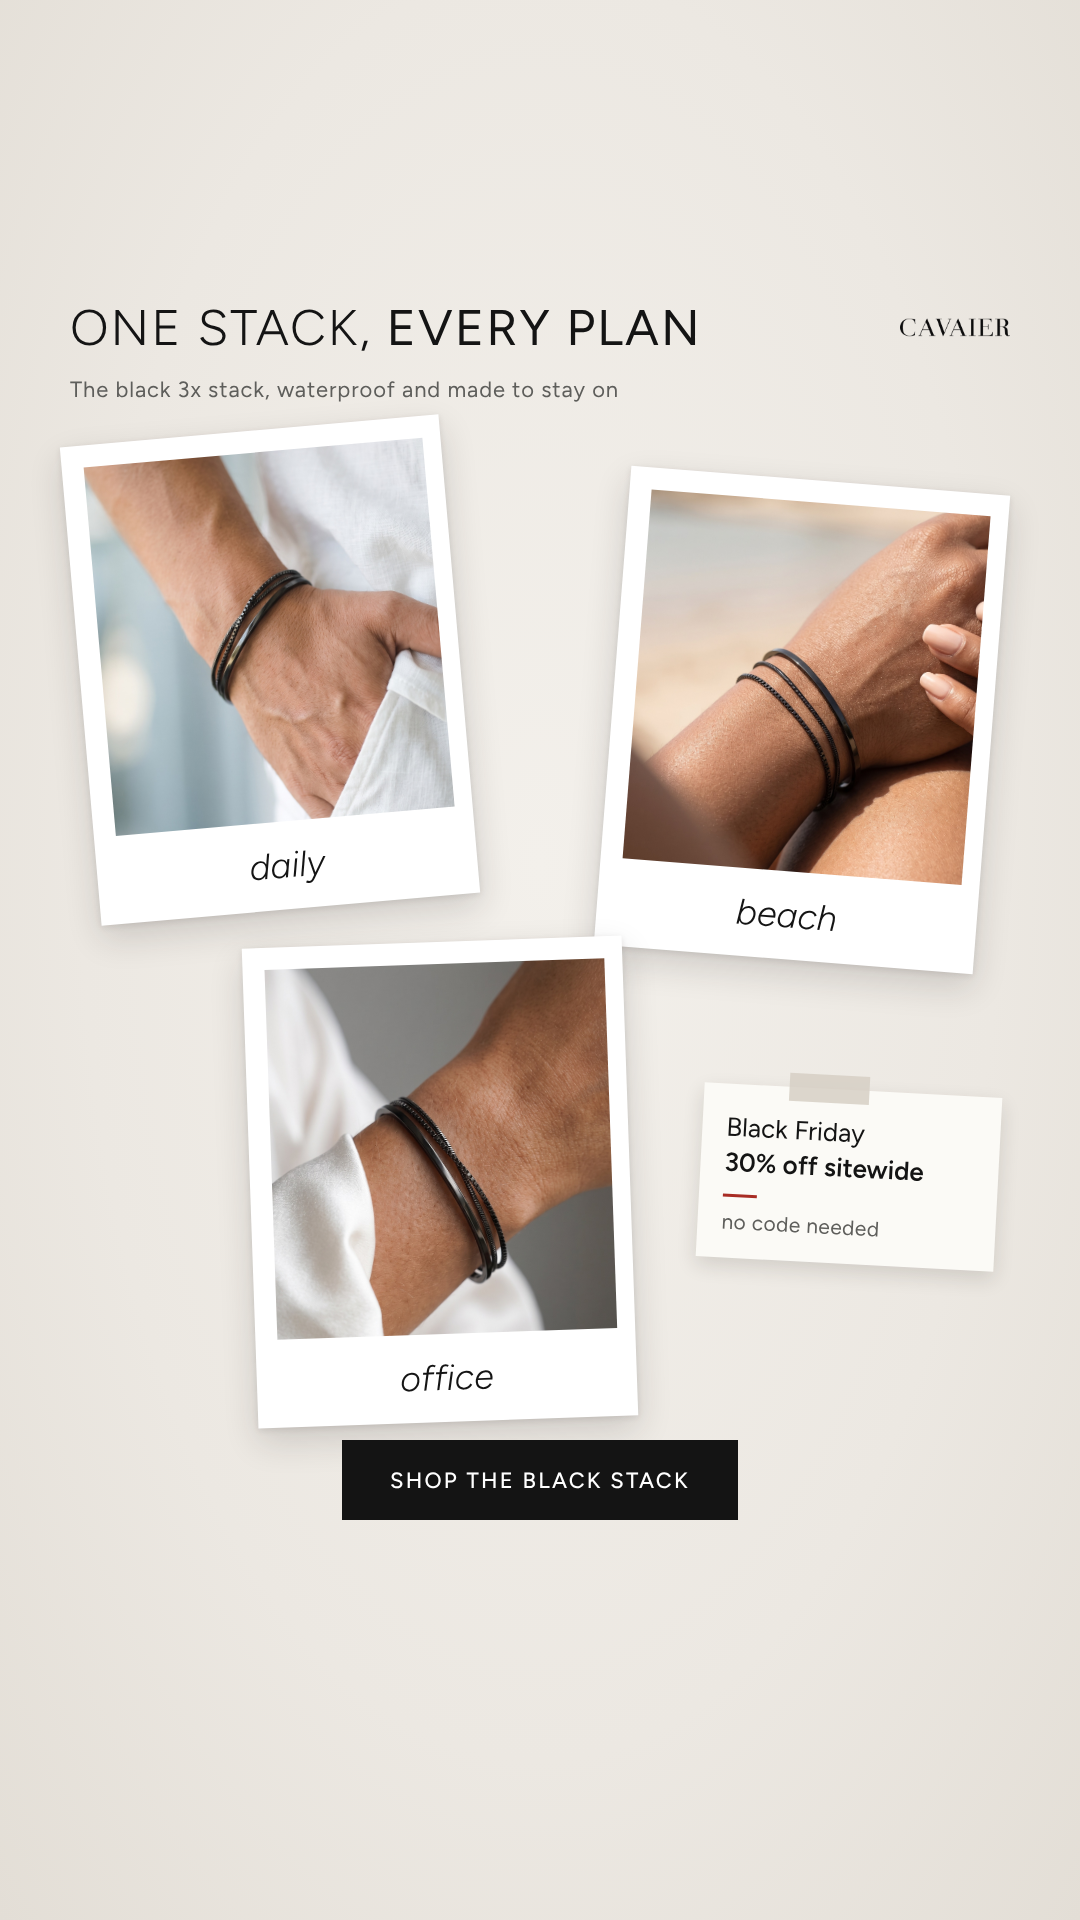
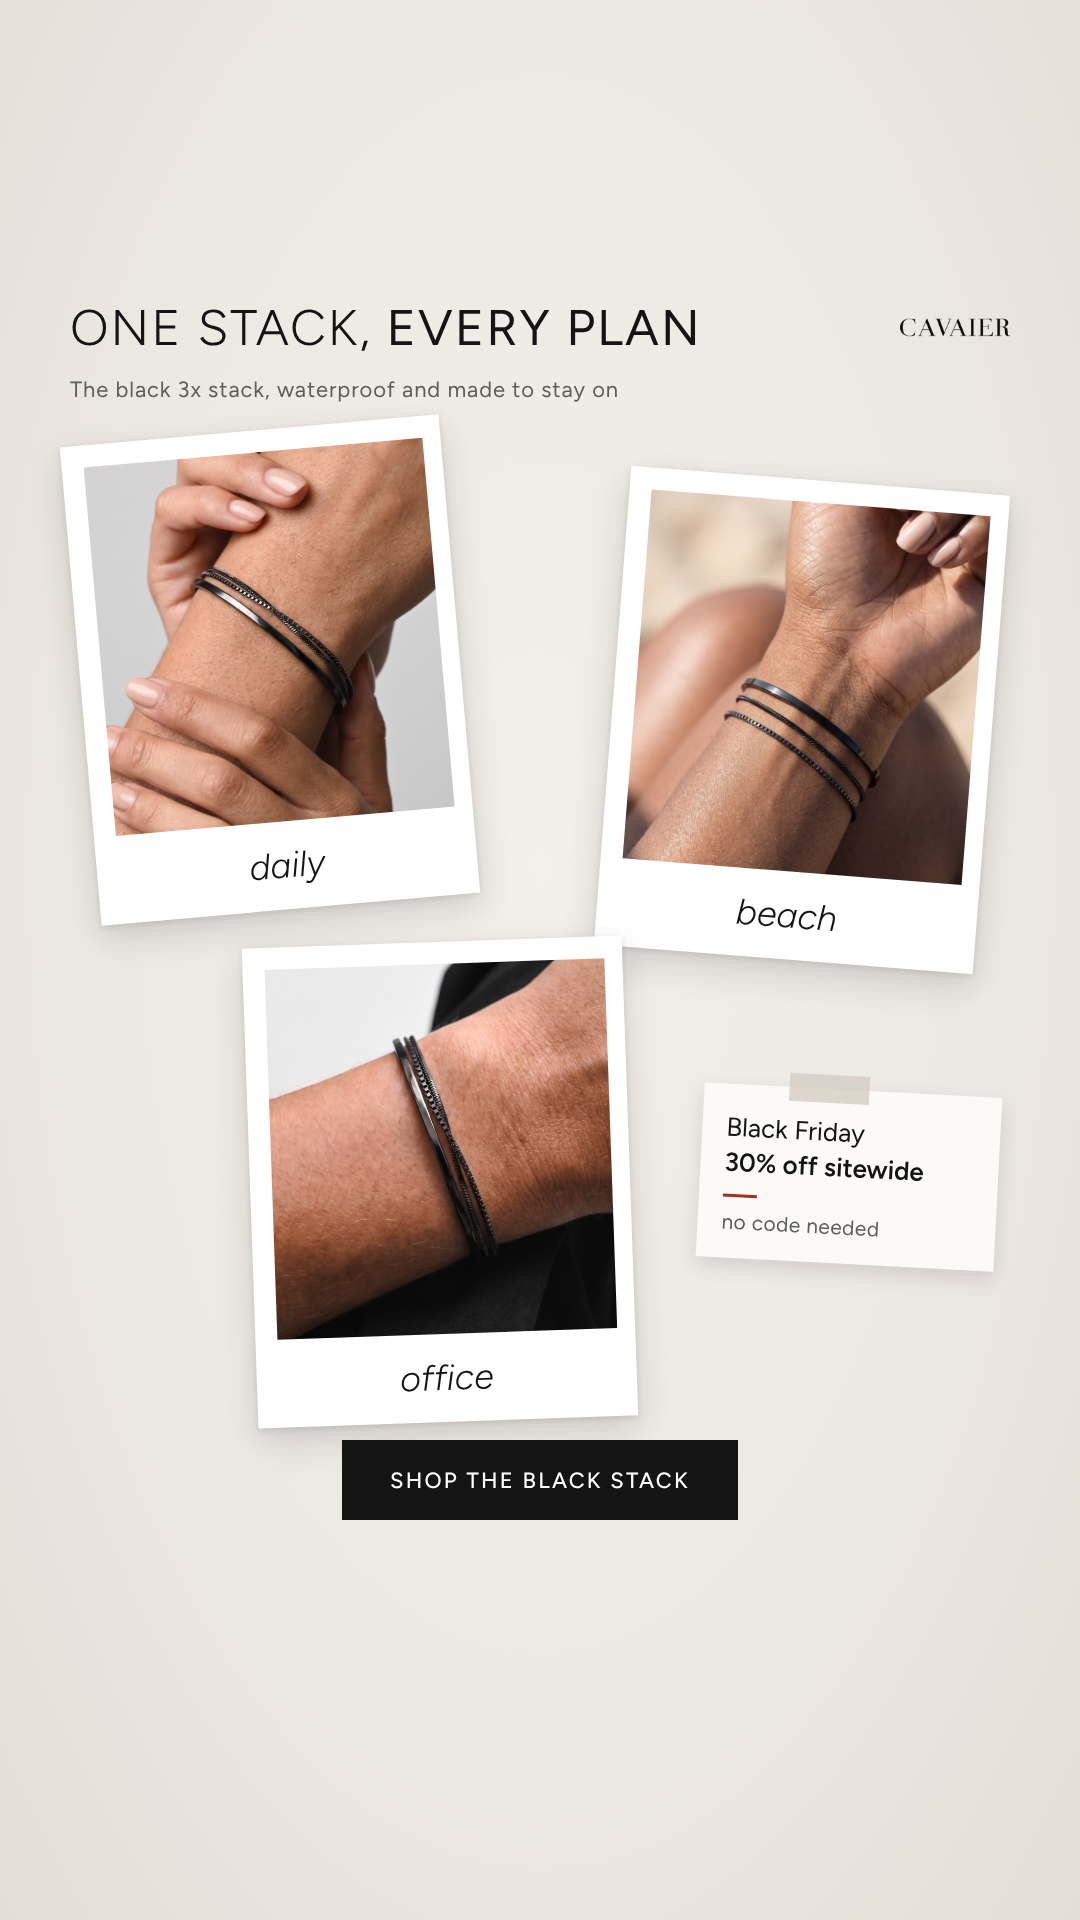
M483 C1-C3, M485 C1, W434 C1+C3: cleaner real photos (M483 C2 men's 3x stack silver)
Claude-Session: https://claude.ai/code/session_01LtGMNmy7hV4kZNsS3Vsb6Q

Changed region(s): [[0.5806, 0.25, 0.9167, 0.4688], [0.2444, 0.5, 0.5806, 0.7188], [0.0611, 0.2188, 0.4278, 0.4375]]

diff --git a/bfcm26/canvas/M483-C2.dc.html b/bfcm26/canvas/M483-C2.dc.html
@@ -2,7 +2,7 @@
 <html lang="en">
 <head>
 <meta charset="utf-8">
-<title>M Batch 483 - C2 · Lock-screen notifications</title>
+<title>M Batch 483 - C2 · Lock-screen notifications (3x stack)</title>
 <script src="./support.js"></script>
 </head>
 <body>
@@ -14,14 +14,17 @@ body{margin:0}
 a{color:#141414}a:hover{color:#000000}
 </style>
 </helmet>
-<div style="width: 1080px; height: 1920px; position: relative; overflow: hidden; background: #141414; font-family: Figtree, sans-serif; color: #141414">
-<img src="/_blob/a15115266cceaba5ee4f8b4f79f6742e" alt="The silver 2x Duo Minimal Set on a man's wrist across a dark linen shirt" style="position: absolute; top: -390px; left: 0; width: 1080px; height: 2310px; object-fit: cover; object-position: 50% 0%; display: block">
-<div style="position: absolute; top: 285px; left: 0; width: 1080px; display: flex; flex-direction: column; align-items: center; gap: 4px; color: #FFFFFF">
-<img src="/_blob/b5d78a878b48e10609c923597dd1852e" alt="Cavaier" style="width: 110px; height: auto; display: block; filter: invert(1)">
-<span style="margin-top: 14px; font-size: 30px; font-weight: 500; letter-spacing: 0.04em">Black Friday</span>
-<span style="font-size: 170px; font-weight: 300; line-height: 1; letter-spacing: -0.01em">9:41</span>
+<div style="width: 1080px; height: 1920px; position: relative; overflow: hidden; background: #DFDFDF; font-family: Figtree, sans-serif; color: #141414">
+<img src="/_blob/2d30e2c8d2ea2521378bf7b9d74e8f41" alt="The silver 3x Minimal Stack Set on a man's wrist: polished cuff, box chain and square chain" style="position: absolute; top: -109px; left: 0; width: 1080px; height: 1440px; display: block; -webkit-mask-image: linear-gradient(180deg, #000000 0%, #000000 88%, transparent 100%); mask-image: linear-gradient(180deg, #000000 0%, #000000 88%, transparent 100%)">
+<div style="position: absolute; top: 280px; right: 60px; display: flex; flex-direction: column; align-items: flex-end; gap: 18px">
+<div style="width: 420px; box-sizing: border-box; padding: 26px 30px 22px; background: rgba(247,247,245,0.93); border-radius: 30px; display: flex; flex-direction: column; align-items: flex-end; gap: 4px; color: #141414">
+<img src="/_blob/b5d78a878b48e10609c923597dd1852e" alt="Cavaier" style="width: 110px; height: auto; display: block">
+<span style="margin-top: 10px; font-size: 30px; font-weight: 500; letter-spacing: 0.04em">Black Friday</span>
+<span style="font-size: 140px; font-weight: 300; line-height: 1; letter-spacing: -0.01em">9:41</span>
 </div>
-<div style="position: absolute; top: 1000px; left: 60px; display: flex; flex-direction: column; gap: 10px">
+<a href="https://cavaier.com/products/3x-minimal-stack-set-for-him?variant=54372875796826" style="display: inline-flex; align-items: center; justify-content: center; height: 80px; padding: 0 48px; background: #141414; color: #FFFFFF; text-decoration: none; font-size: 22px; font-weight: 500; letter-spacing: 0.1em">SHOP THE STACK</a>
+</div>
+<div style="position: absolute; top: 1052px; left: 60px; display: flex; flex-direction: column; gap: 10px">
 <div style="width: 960px; box-sizing: border-box; padding: 18px 28px; background: rgba(247,247,245,0.93); border-radius: 30px; display: flex; gap: 22px; align-items: flex-start">
 <span style="flex: none; width: 62px; height: 62px; border-radius: 15px; background: #141414; display: flex; align-items: center; justify-content: center; color: #FFFFFF; font-size: 30px; font-weight: 400">C</span>
 <div style="flex: 1; display: flex; flex-direction: column; gap: 2px">
@@ -34,8 +37,8 @@ a{color:#141414}a:hover{color:#000000}
 <span style="flex: none; width: 62px; height: 62px; border-radius: 15px; background: #141414; display: flex; align-items: center; justify-content: center; color: #FFFFFF; font-size: 30px; font-weight: 400">C</span>
 <div style="flex: 1; display: flex; flex-direction: column; gap: 2px">
 <div style="display: flex; justify-content: space-between; font-size: 22px; font-weight: 500; letter-spacing: 0.06em; color: #5C5C57"><span>CAVAIER</span><span style="font-weight: 400; letter-spacing: 0">2m ago</span></div>
-<span style="font-size: 29px; font-weight: 600; line-height: 1.25">Your duo: waterproof, 316L</span>
-<span style="font-size: 27px; font-weight: 400; line-height: 1.3; color: #2A2A28">Box chain + square chain. Sweat and heat resistant.</span>
+<span style="font-size: 29px; font-weight: 600; line-height: 1.25">The stack: three pieces, recycled 316L</span>
+<span style="font-size: 27px; font-weight: 400; line-height: 1.3; color: #2A2A28">Polished cuff, box chain, square chain.</span>
 </div>
 </div>
 <div style="width: 960px; box-sizing: border-box; padding: 18px 28px; background: rgba(247,247,245,0.93); border-radius: 30px; display: flex; gap: 22px; align-items: flex-start">
@@ -43,18 +46,15 @@ a{color:#141414}a:hover{color:#000000}
 <div style="flex: 1; display: flex; flex-direction: column; gap: 2px">
 <div style="display: flex; justify-content: space-between; font-size: 22px; font-weight: 500; letter-spacing: 0.06em; color: #5C5C57"><span>CAVAIER</span><span style="font-weight: 400; letter-spacing: 0">5m ago</span></div>
 <span style="font-size: 29px; font-weight: 600; line-height: 1.25">Free shipping · case included</span>
-<span style="font-size: 27px; font-weight: 400; line-height: 1.3; color: #2A2A28">Adjustable S/M/L. 4.5 on Trustpilot, 3,000+ reviews.</span>
+<span style="font-size: 27px; font-weight: 400; line-height: 1.3; color: #2A2A28">Waterproof. 4.5 on Trustpilot, 3,000+ reviews.</span>
 </div>
 </div>
-</div>
-<div style="position: absolute; top: 1452px; left: 60px; width: 960px; display: flex; justify-content: center">
-<a href="https://cavaier.com/products/2x-duo-minimal-set-for-him?variant=54745039536474" style="display: inline-flex; align-items: center; justify-content: center; height: 80px; padding: 0 48px; background: #141414; color: #FFFFFF; text-decoration: none; font-size: 22px; font-weight: 500; letter-spacing: 0.1em">SHOP THE DUO</a>
 </div>
 <div style="position: absolute; top: 1690px; left: 110px; width: 860px; display: flex; justify-content: space-between">
 <span style="width: 100px; height: 100px; border-radius: 50%; background: rgba(20,20,20,0.45); display: block"></span>
 <span style="width: 100px; height: 100px; border-radius: 50%; background: rgba(20,20,20,0.45); display: block"></span>
 </div>
-<div style="position: absolute; top: 1872px; left: 390px; width: 300px; height: 10px; border-radius: 5px; background: #FFFFFF"></div>
+<div style="position: absolute; top: 1872px; left: 390px; width: 300px; height: 10px; border-radius: 5px; background: #141414"></div>
 </div>
 </x-dc>
 <script type="text/x-dc" data-dc-script data-props='{"$preview":{"width":1080,"height":1920}}'>

diff --git a/bfcm26/canvas/W434-C3.dc.html b/bfcm26/canvas/W434-C3.dc.html
@@ -21,9 +21,9 @@ a{color:#141414}a:hover{color:#000000}
 <img src="/_blob/b5d78a878b48e10609c923597dd1852e" alt="Cavaier" style="width: 110px; height: auto; display: block">
 </div>
 <span style="position: absolute; top: 376px; left: 70px; font-size: 22px; font-weight: 400; letter-spacing: 0.04em; color: #5E5E5B">The black 3x stack, waterproof and made to stay on</span>
-<div style="position: absolute; top: 430px; left: 80px; width: 380px; height: 480px; background: #FFFFFF; transform: rotate(-5deg); box-shadow: 0 14px 34px rgba(40,34,28,0.16), 0 2px 6px rgba(40,34,28,0.10)"><img src="/_blob/8dc0c20339dbb5e5f8cc0b5da83fbe2f" alt="The black 3x Minimal - Stack Set on a woman's wrist, hand in a white linen pocket" style="position: absolute; top: 22px; left: 22px; width: 340px; height: 370px; object-fit: cover; object-position: 50% 30%; display: block"><span style="position: absolute; left: 0; right: 0; bottom: 26px; text-align: center; font-size: 36px; line-height: 1; font-weight: 300; font-style: italic; color: #141414">daily</span></div>
-<div style="position: absolute; top: 480px; left: 612px; width: 380px; height: 480px; background: #FFFFFF; transform: rotate(4.5deg); box-shadow: 0 14px 34px rgba(40,34,28,0.16), 0 2px 6px rgba(40,34,28,0.10)"><img src="/_blob/4ea13465f38c0262ccc60c005880c024" alt="The black 3x Minimal - Stack Set on a woman's wrist at the beach" style="position: absolute; top: 22px; left: 22px; width: 340px; height: 370px; object-fit: cover; object-position: 50% 40%; display: block"><span style="position: absolute; left: 0; right: 0; bottom: 26px; text-align: center; font-size: 36px; line-height: 1; font-weight: 300; font-style: italic; color: #141414">beach</span></div>
-<div style="position: absolute; top: 942px; left: 250px; width: 380px; height: 480px; background: #FFFFFF; transform: rotate(-2deg); box-shadow: 0 14px 34px rgba(40,34,28,0.16), 0 2px 6px rgba(40,34,28,0.10)"><img src="/_blob/e5cace85271a5798f43115c7ff878032" alt="The black 3x Minimal - Stack Set on a woman's wrist under a white shirt cuff" style="position: absolute; top: 22px; left: 22px; width: 340px; height: 370px; object-fit: cover; object-position: 55% 40%; display: block"><span style="position: absolute; left: 0; right: 0; bottom: 26px; text-align: center; font-size: 36px; line-height: 1; font-weight: 300; font-style: italic; color: #141414">office</span></div>
+<div style="position: absolute; top: 430px; left: 80px; width: 380px; height: 480px; background: #FFFFFF; transform: rotate(-5deg); box-shadow: 0 14px 34px rgba(40,34,28,0.16), 0 2px 6px rgba(40,34,28,0.10)"><img src="/_blob/acc79b16a3129004eb9c6413e9a611d3" alt="The black 3x Minimal - Stack Set on a woman's wrist, hands crossed in soft studio light" style="position: absolute; top: 22px; left: 22px; width: 340px; height: 370px; object-fit: cover; object-position: 50% 55%; display: block"><span style="position: absolute; left: 0; right: 0; bottom: 26px; text-align: center; font-size: 36px; line-height: 1; font-weight: 300; font-style: italic; color: #141414">daily</span></div>
+<div style="position: absolute; top: 480px; left: 612px; width: 380px; height: 480px; background: #FFFFFF; transform: rotate(4.5deg); box-shadow: 0 14px 34px rgba(40,34,28,0.16), 0 2px 6px rgba(40,34,28,0.10)"><img src="/_blob/c9ea2f3904bd654bf13250323a92b9d6" alt="The black 3x Minimal - Stack Set on a woman's wrist in the sun at the beach" style="position: absolute; top: 22px; left: 22px; width: 340px; height: 370px; object-fit: cover; object-position: 50% 30%; display: block"><span style="position: absolute; left: 0; right: 0; bottom: 26px; text-align: center; font-size: 36px; line-height: 1; font-weight: 300; font-style: italic; color: #141414">beach</span></div>
+<div style="position: absolute; top: 942px; left: 250px; width: 380px; height: 480px; background: #FFFFFF; transform: rotate(-2deg); box-shadow: 0 14px 34px rgba(40,34,28,0.16), 0 2px 6px rgba(40,34,28,0.10)"><img src="/_blob/d48f3d84b7d587ecec3e61920a2950ac" alt="The black 3x Minimal - Stack Set on a woman's wrist against a black top and white wall" style="position: absolute; top: 22px; left: 22px; width: 340px; height: 370px; object-fit: cover; object-position: 50% 50%; display: block"><span style="position: absolute; left: 0; right: 0; bottom: 26px; text-align: center; font-size: 36px; line-height: 1; font-weight: 300; font-style: italic; color: #141414">office</span></div>
 <div style="position: absolute; top: 1090px; left: 700px; width: 250px; padding: 26px 24px 24px; background: #FBFAF6; transform: rotate(3deg); box-shadow: 0 8px 20px rgba(40,34,28,0.14)">
 <i style="position: absolute; top: -14px; left: 85px; width: 80px; height: 28px; background: rgba(214,207,196,0.85); display: block"></i>
 <p style="margin: 0; font-size: 26px; line-height: 1.35; font-weight: 400; color: #141414">Black Friday<br><span style="font-weight: 600">30% off sitewide</span></p>

diff --git a/bfcm26/canvas/M483-C3.dc.html b/bfcm26/canvas/M483-C3.dc.html
@@ -15,13 +15,12 @@ a{color:#141414}a:hover{color:#000000}
 </style>
 </helmet>
 <div style="width: 1080px; height: 1920px; position: relative; overflow: hidden; background: #1E1E1C; font-family: Figtree, sans-serif; color: #141414">
-<img src="/_blob/94add300bf213fdd37f226757f616e97" alt="The silver 2x Duo Minimal Set on a wet wrist, fingers in shallow water" style="position: absolute; top: -210px; left: 0; width: 1080px; height: 2130px; object-fit: cover; object-position: 50% 0%; display: block">
-<div style="position: absolute; top: 905px; left: 60px; width: 960px; box-sizing: border-box; padding: 44px 48px 48px; background: #FAFAF8; display: flex; flex-direction: column; gap: 18px">
+<img src="/_blob/1aa6c867660d3267f31e3b1062afe347" alt="The silver 2x Duo Minimal Set on a wet wrist, hand pressed into wet sand" style="position: absolute; top: -220px; left: -173px; width: 1427px; height: 2140px; display: block">
+<div style="position: absolute; top: 945px; left: 60px; width: 960px; box-sizing: border-box; padding: 44px 48px 48px; background: #FAFAF8; display: flex; flex-direction: column; gap: 18px">
 <div style="display: flex; align-items: center; justify-content: space-between"><span style="font-size: 22px; font-weight: 500; letter-spacing: 0.1em; color: #5C5C57">REMINDER</span><img src="/_blob/b5d78a878b48e10609c923597dd1852e" alt="Cavaier" style="width: 110px; height: auto; display: block"></div>
 <div style="display: flex; align-items: stretch; gap: 22px"><span style="flex: none; width: 8px; background: #A82C24; display: block"></span><span style="font-size: 50px; font-weight: 400; line-height: 1.15; letter-spacing: 0.04em; text-transform: uppercase">Black Friday · get the duo</span></div>
 <div style="display: flex; align-items: center; gap: 18px; font-size: 28px; font-weight: 400; line-height: 1.35"><svg width="30" height="30" viewBox="0 0 30 30" fill="none" stroke="#141414" stroke-width="2" aria-hidden="true"><circle cx="15" cy="15" r="12.5"></circle><path d="M15 8 V15 L20 18"></path></svg><span>All day</span></div>
 <div style="display: flex; align-items: center; gap: 18px; font-size: 28px; font-weight: 400; line-height: 1.35"><svg width="30" height="30" viewBox="0 0 30 30" fill="none" stroke="#141414" stroke-width="2" aria-hidden="true"><path d="M15 27 C15 27 6 18 6 12 a9 9 0 0 1 18 0 C24 18 15 27 15 27 Z"></path><circle cx="15" cy="12" r="3.2"></circle></svg><span>cavaier.com</span></div>
-<div style="display: flex; align-items: center; gap: 18px; font-size: 28px; font-weight: 400; line-height: 1.35"><svg width="30" height="30" viewBox="0 0 30 30" fill="none" stroke="#141414" stroke-width="2" aria-hidden="true"><path d="M7 21 V13 a8 8 0 0 1 16 0 V21 L25 23 H5 Z"></path><path d="M12 26 a3 3 0 0 0 6 0"></path></svg><span>Alert: when it starts</span></div>
 <div style="height: 1.5px; background: #DADAD5; margin: 4px 0"></div>
 <span style="font-size: 22px; font-weight: 500; letter-spacing: 0.1em; color: #5C5C57">NOTES</span>
 <span style="font-size: 28px; font-weight: 300; line-height: 1.5">30% off sitewide · no code · prices already reduced. Silver duo, waterproof, recycled 316L.</span>

diff --git a/bfcm26/canvas/M483-C1.dc.html b/bfcm26/canvas/M483-C1.dc.html
@@ -33,7 +33,7 @@ a{color:#141414}a:hover{color:#000000}
 <div style="position: absolute; top: 478px; left: 60px; width: 960px; display: flex; flex-direction: column; gap: 14px">
 <div style="display: flex; flex-direction: column"><span style="font-size: 22px; font-weight: 400; color: #66665F; margin: 0 0 8px 26px; display: block">Sam</span><div style="align-self: flex-start; max-width: 880px; padding: 22px 32px; background: #E7E7E3; border-radius: 38px; font-size: 32px; font-weight: 400; line-height: 1.35; color: #141414"><span>is cavaier on sale?</span></div></div>
 <div style="display: flex; flex-direction: column"><span style="font-size: 22px; font-weight: 400; color: #66665F; margin: 0 0 8px 26px; display: block">Jay</span><div style="align-self: flex-start; max-width: 880px; padding: 22px 32px; background: #E7E7E3; border-radius: 38px; font-size: 32px; font-weight: 400; line-height: 1.35; color: #141414"><span>30% off everything, prices already dropped, no code</span></div></div>
-<div style="align-self: flex-start; margin-top: 2px"><img src="/_blob/feaf882f98b8208b0e79adf1826502a8" alt="The silver 2x Duo Minimal Set on a wet wrist, hand on a rock by the surf" style="width: 600px; height: 540px; object-fit: cover; object-position: 50% 51%; display: block; border-radius: 34px"></div>
+<div style="align-self: flex-start; margin-top: 2px"><div style="position: relative; width: 600px; height: 540px; overflow: hidden; border-radius: 34px"><img src="/_blob/fbb5de93cac830dd8ccc2bc58340f95f" alt="The silver 2x Duo Minimal Set on a wet wrist, hand dipping into the sea" style="position: absolute; left: -380px; top: -700px; width: 1300px; height: 1950px; display: block"></div></div>
 <div style="align-self: flex-end; max-width: 700px; padding: 22px 32px; background: #141414; border-radius: 38px; font-size: 32px; font-weight: 400; line-height: 1.35; color: #FFFFFF"><span>ordering the duo</span></div>
 </div>
 <div style="position: absolute; top: 1440px; left: 60px; width: 960px; display: flex; align-items: center; justify-content: space-between">

diff --git a/bfcm26/canvas/W434-C1.dc.html b/bfcm26/canvas/W434-C1.dc.html
@@ -23,7 +23,7 @@ a{color:#141414}a:hover{color:#000000}
 <h1 style="position: absolute; top: 368px; left: 70px; width: 940px; margin: 0; font-size: 60px; line-height: 1.12; letter-spacing: 0.04em; font-weight: 300; text-transform: uppercase">The Black Friday<br><span style="font-weight: 400">Gift Edit</span></h1>
 <span style="position: absolute; top: 470px; left: 668px; width: 342px; text-align: right; font-size: 21px; font-weight: 500; letter-spacing: 0.14em; color: #5E5E5B">GIFTS FOR HER</span>
 <i style="position: absolute; top: 520px; left: 70px; width: 940px; height: 1px; background: #CFCAC2; display: block"></i>
-<img src="/_blob/8ee816d3cc2af713fecee311d29aab5d" alt="The gold 3x Minimal - Stack Set (flat polished cuff bangle, box chain, square chain) on a woman's wrist resting on white linen" style="position: absolute; top: 560px; left: 70px; width: 560px; height: 740px; object-fit: cover; object-position: 30% 22%; display: block">
+<img src="/_blob/1c26da203ee4de9d15aa0b6f416e7c0b" alt="The gold 3x Minimal - Stack Set (flat polished cuff bangle, box chain, square chain) on a woman's wrist, hands crossed against a light grey studio wall" style="position: absolute; top: 560px; left: 70px; width: 560px; height: 740px; object-fit: cover; object-position: 50% 50%; display: block">
 <div style="position: absolute; top: 560px; left: 668px; width: 342px; display: flex; flex-direction: column; align-items: flex-start">
 <span style="font-size: 96px; line-height: 1; font-weight: 300; letter-spacing: 0.01em">No. 01</span>
 <i style="display: block; width: 44px; height: 3px; background: #A82C24; margin: 28px 0 24px"></i>

diff --git a/bfcm26/canvas/M485-C1.dc.html b/bfcm26/canvas/M485-C1.dc.html
@@ -14,8 +14,8 @@ body{margin:0}
 a{color:#141414}a:hover{color:#000000}
 </style>
 </helmet>
-<div style="width: 1080px; height: 1920px; position: relative; overflow: hidden; background: #C9CED0; font-family: Figtree, sans-serif; color: #141414">
-<div style="position: absolute; left: 0px; top: 0px; width: 1080px; height: 1920px; overflow: hidden; "><img src="/_blob/24220da58ccc7e06845ad358402f7500" alt="A man's open hand reaching toward the sea, wearing the silver 2x Duo Minimal Set" style="position: absolute; left: 0px; top: 0px; width: 1080px; height: 1920px; display: block"></div>
+<div style="width: 1080px; height: 1920px; position: relative; overflow: hidden; background: #DFE6E6; font-family: Figtree, sans-serif; color: #141414">
+<div style="position: absolute; left: 0px; top: 470px; width: 1080px; height: 1450px; overflow: hidden; -webkit-mask-image: linear-gradient(180deg, transparent 0px, #000000 300px); mask-image: linear-gradient(180deg, transparent 0px, #000000 300px)"><img src="/_blob/227d98633fc67bfd5bfe7175ec35f3ce" alt="A slim, wet wrist wearing the silver 2x Duo Minimal Set, the hand plunged into the sea" style="position: absolute; left: 0px; top: -240px; width: 1080px; height: 1920px; display: block"></div>
 <div style="position: absolute; top: 300px; left: 60px; width: 960px; display: flex; flex-direction: column; gap: 26px">
 <div style="display: flex; align-items: flex-start; gap: 20px">
 <span style="width: 72px; height: 72px; border-radius: 50%; background: #FFFFFF; display: block; flex: none; box-shadow: 0 2px 14px rgba(20,20,20,0.08)"></span>
